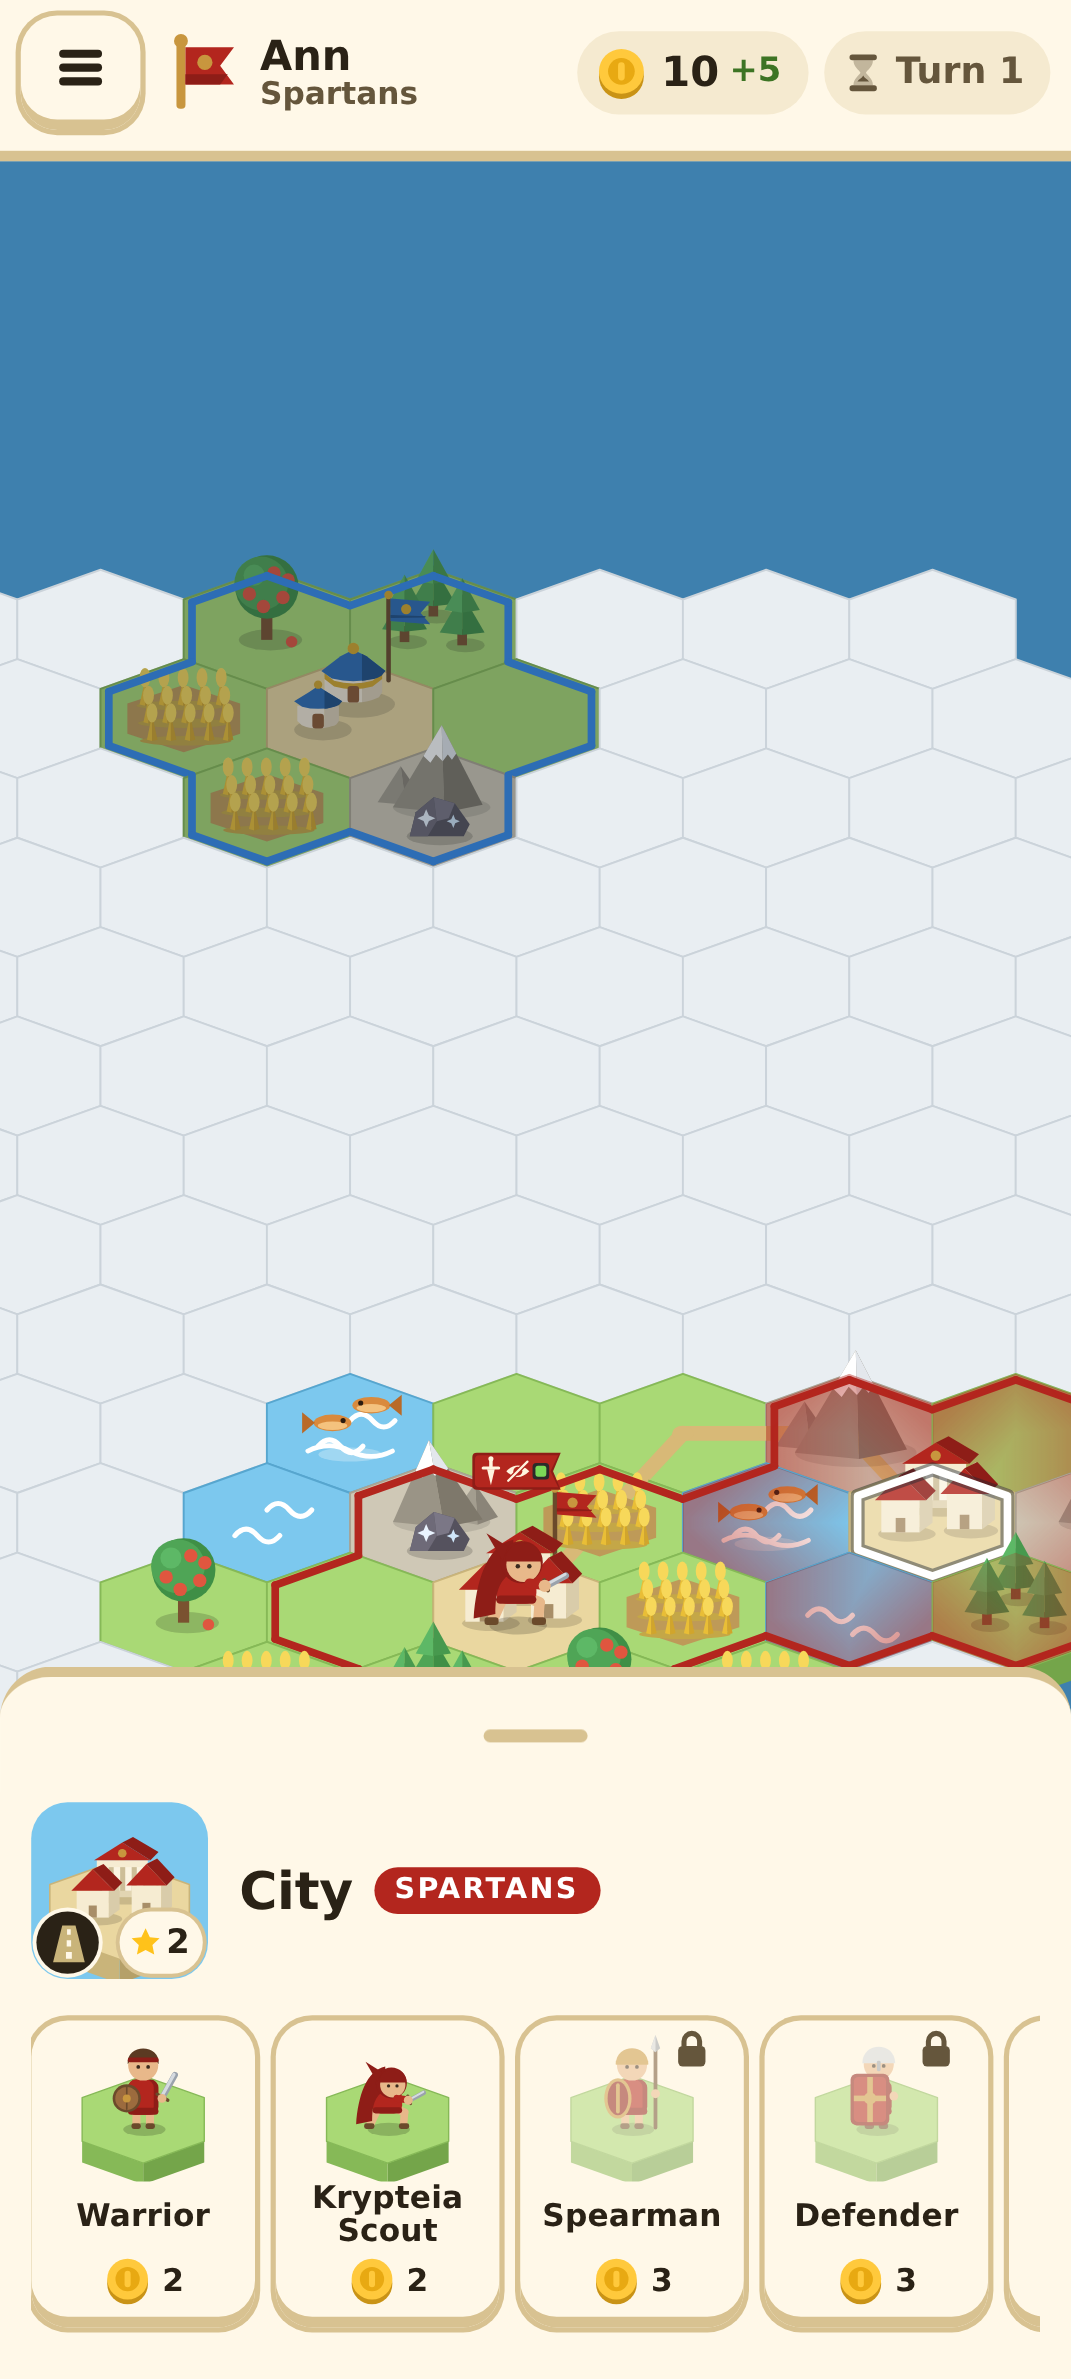
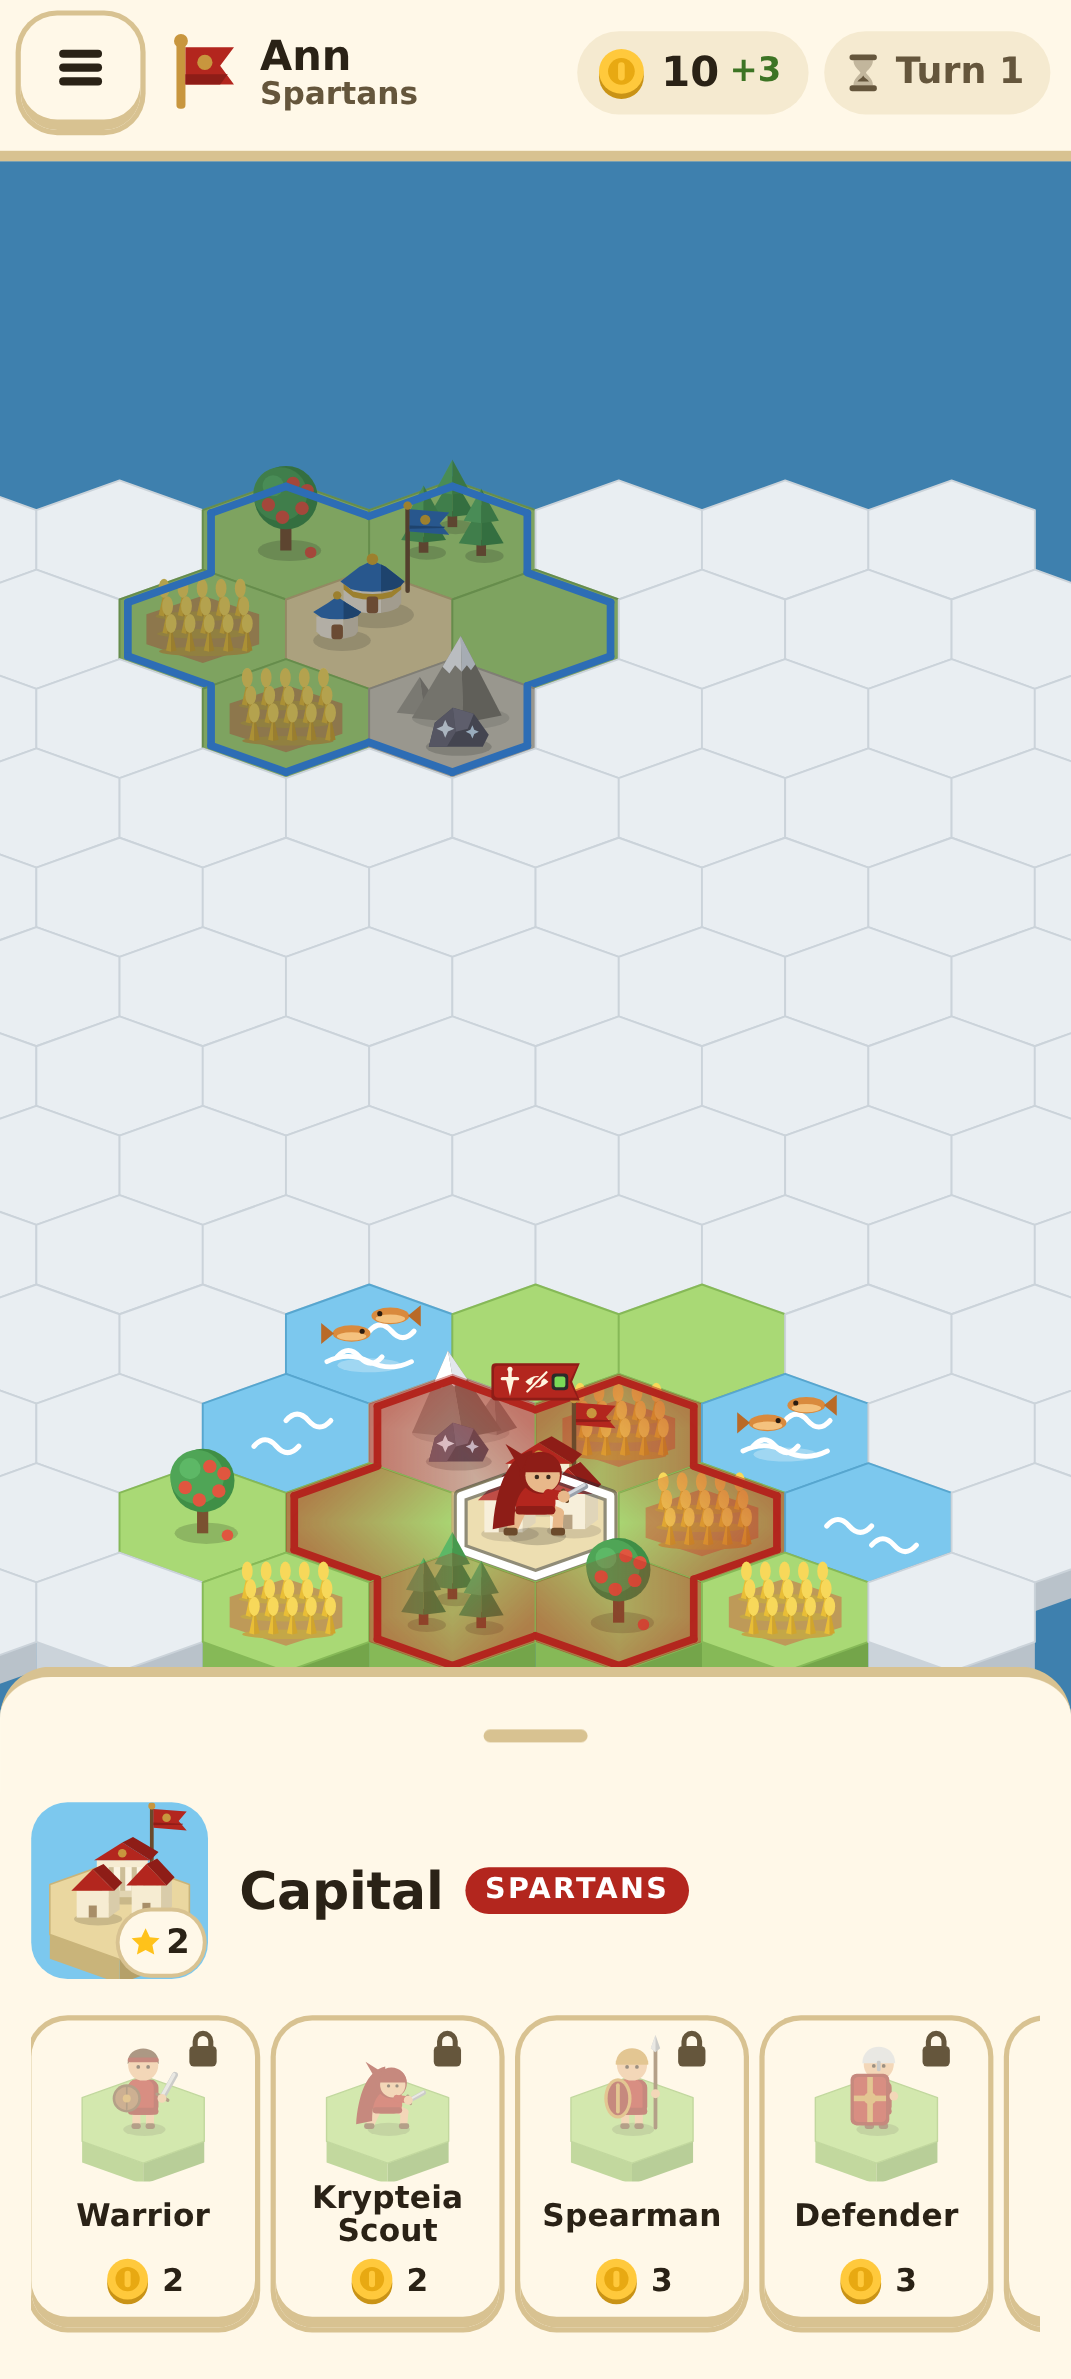
Fix the boardux shot script to respect the engine boundary; retake city fade shots on the capital

diff --git a/scripts/boardux-shots.ts b/scripts/boardux-shots.ts
@@ -6,7 +6,6 @@ import { newRecord } from '../src/app/record';
 import type { MatchRecord } from '../src/app/record';
 import { writeSave } from '../src/app/saves';
 import { createMatch, hashState } from '../src/engine';
-import { addCity, setTile } from '../src/engine/testkit';
 import { cameraStill, deselect, frames, openApp, tapTile } from '../src/browser/harness';
 
 const outDir = process.argv[2];
@@ -16,8 +15,6 @@ mkdirSync(out, { recursive: true });
 
 function save(): [string, string][] {
   const state = createMatch({ seed: 7, factions: ['spartans', 'mongols'] });
-  addCity(state, 0, 1, 4, { level: 2 });
-  for (const [q, r] of [[-1, 4], [0, 3], [1, 3]] as const) setTile(state, q, r, { road: true });
   const p = state.players[0]!;
   p.explored = [...new Set([...p.explored, ...Object.keys(state.tiles).filter((k) => state.tiles[k]!.cityId !== null)])].sort();
   const base = newRecord('land', { seed: 7, factions: ['spartans', 'mongols'] }, ['Ann', 'Ben'], 1_000_000);
@@ -47,15 +44,15 @@ for (const look of ['svg', '3d'] as const) {
     await frames(page); await cameraStill(page);
     await deselect(page);
     for (let i = 0; i < 3 && (await page.locator('.selection .city-panel').count()) === 0; i += 1) {
-      await tapTile(page, '1,4'); await page.waitForTimeout(300); await cameraStill(page);
+      await tapTile(page, '-2,5'); await page.waitForTimeout(300); await cameraStill(page);
     }
     await page.locator('.selection .city-panel').waitFor();
     await page.waitForTimeout(800); await frames(page);
-    await page.screenshot({ path: `${out}/${name}-${look}.png` });
-    const b = await page.locator('[data-centre="1,4"]').boundingBox();
+    await page.screenshot({ path: `${out}/${name}${look === "svg" ? "" : "-3d"}.png` });
+    const b = await page.locator('[data-centre="-2,5"]').boundingBox();
     if (b !== null) {
       const cx = b.x + b.width / 2, cy = b.y + b.height / 2;
-      await page.screenshot({ path: `${out}/${name}-${look}-zoom.png`, clip: { x: Math.max(0, cx - 110), y: Math.max(0, cy - 110), width: 220, height: 220 } });
+      await page.screenshot({ path: `${out}/${name}${look === "svg" ? "" : "-3d"}-zoom.png`, clip: { x: Math.max(0, cx - 110), y: Math.max(0, cy - 110), width: 220, height: 220 } });
     }
   } finally { await close(); }
 }
